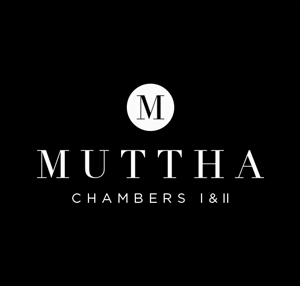
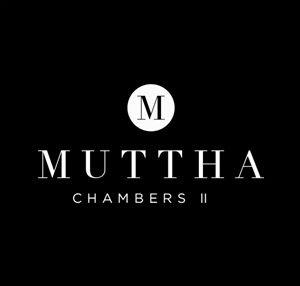
client added and project img of chambers changed

diff --git a/views/content/project.html b/views/content/project.html
@@ -20,15 +20,15 @@
                 <div class="row">
                     <div class="col-md-12">
                         <div class="project-desc" ng-if="projectDetail.id == 1">Lorem ipsum dolor sit amet, consectetur adipisicing elit. Quam culpa inventore doloremque necessitatibus eum repellat magnam aliquid accusantium. Illo facilis tempora eligendi eum ipsam laborum odit quam adipisci quod fugit.</div>
-                        <div class="project-desc" ng-if="projectDetail.id == 2">Lorem ipsum dolor sit amet, consectetur adipisicing elit. Laboriosam necessitatibus in laudantium tempore quaerat temporibus quidem alias, earum rerum fugiat atque ipsa voluptatem asperiores doloremque inventore error ratione sed
-                            id!</div>
+                        <div class="project-desc" ng-if="projectDetail.id == 2">  <p class="font-weight300">Muttha Chambers II is situated on Senapati Bapat Road, a prime location for businesses in Pune. Muttha Chambers houses some of the most reputed business establishments from around the world. A prime location and HUB to various
+                              industrial sectors right from Auto to Medical and more.
+                          </p>
+                          <p class="font-weight300">
+                              A well planned location, Muttha Chambers II encompasses all that is required for a complete and constructive corporate environment.
+                          </p>
+                        </div>
                         <div class="project-desc" ng-if="projectDetail.id == 3">
-                            <p class="font-weight300">Muttha Chambers II is situated on Senapati Bapat Road, a prime location for businesses in Pune. Muttha Chambers houses some of the most reputed business establishments from around the world. A prime location and HUB to various
-                                industrial sectors right from Auto to Medical and more.
-                            </p>
-                            <p class="font-weight300">
-                                A well planned location, Muttha Chambers II encompasses all that is required for a complete and constructive corporate environment.
-                            </p>
+                          Lorem ipsum dolor sit amet, consectetur adipisicing elit. Quam culpa inventore doloremque necessitatibus eum repellat magnam aliquid accusantium. Illo facilis tempora eligendi eum ipsam laborum odit quam adipisci quod fugit.
                         </div>
                         <div class="project-desc" ng-if="projectDetail.id == 4">
                             <p class="font-weight300">An epitome of growth and an expression of path breaking innovation, the private IT Park the Muttha Towers at Yerwada-Pune is spread over 3 Lac square-feet.

diff --git a/js/controllers.js b/js/controllers.js
@@ -99,6 +99,27 @@ angular.module('phonecatControllers', ['templateservicemod', 'navigationservice'
     }, {
       img: "img/client/c10.png"
 
+    }, {
+      img: "img/client/c11.png"
+
+    }, {
+      img: "img/client/c12.png"
+
+    }, {
+      img: "img/client/c13.png"
+
+    }, {
+      img: "img/client/c14.png"
+
+    }, {
+      img: "img/client/c15.png"
+
+    }, {
+      img: "img/client/c16.png"
+
+    }, {
+     img: "img/client/c17.png"
+
     }];
 
   })
@@ -140,7 +161,7 @@ angular.module('phonecatControllers', ['templateservicemod', 'navigationservice'
     ];
     $scope.projectall = [{
       id: 1,
-      img: "img/slider/sc1.jpg",
+      img: "img/slider/sc0.jpg",
       name: "MUTTHA CHAMBERS I"
     }, {
       id: 2,
